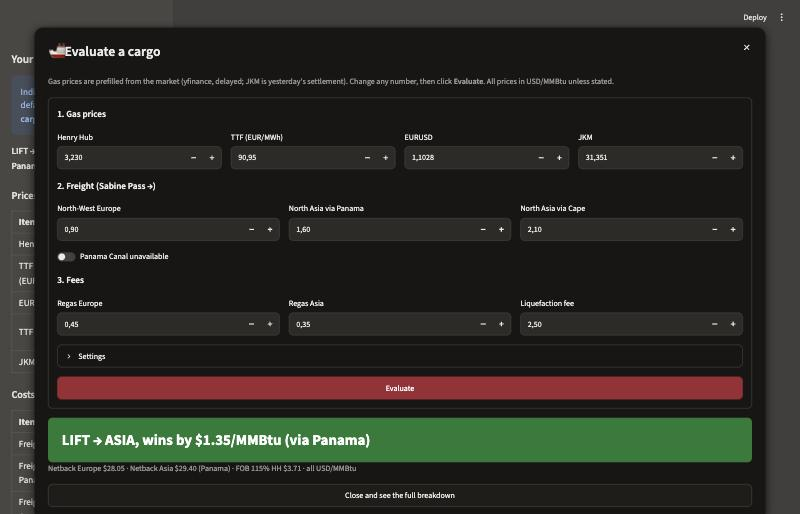
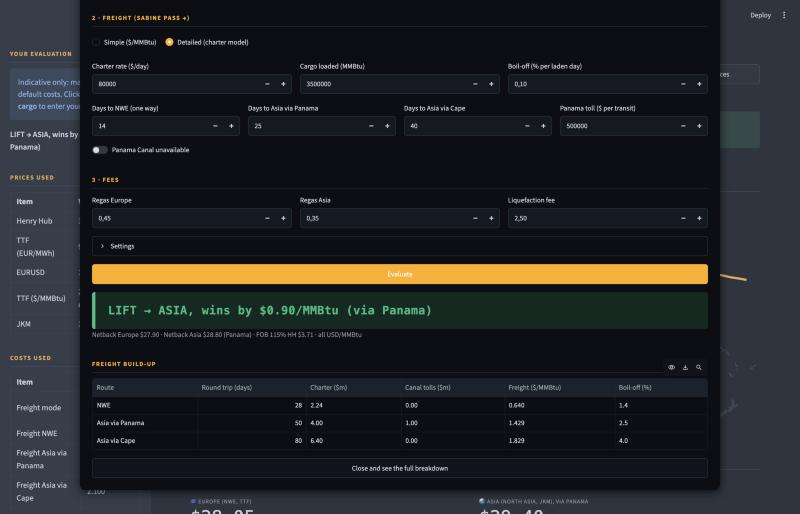
V2 complete: final check against the spec, README and screenshots updated

diff --git a/README.md b/README.md
@@ -6,37 +6,50 @@ A Streamlit dashboard that answers one trading-desk question:
 
 It also answers the offtaker's question behind it: **lift the cargo, or cancel it?**
 
-![Dashboard](docs/dashboard.jpg)
+![Dashboard: verdict and route map](docs/dashboard.jpg)
 
 ---
 
 ## What it does
 
 1. **Pulls market prices** (delayed): Henry Hub, TTF and EURUSD, plus the latest JKM settlement.
-2. **Opens an "Evaluate a cargo" pop-up**. The gas prices are prefilled from the market and editable. The trader enters freight per route, regas and the liquefaction fee.
-3. **Gives the verdict straight away**, e.g. `LIFT → ASIA, wins by $1.35/MMBtu (via Panama)`, `LIFT → EUROPE`, `INDIFFERENT` or `CANCEL`.
-4. **Shows the full breakdown**: netbacks for Europe vs Asia, Panama vs Cape of Good Hope, FOB cost and margins.
-5. **Records what was done**: the sidebar keeps a summary of the evaluation, with every price labelled "market" or "your input".
-6. **Builds its own arb history**: every 5 minutes it re-prices the market and appends one row to a CSV log.
+2. **Opens an "Evaluate a cargo" pop-up**. The gas prices are prefilled from the market and editable. Freight is entered in one of two modes:
+   - **Simple:** USD/MMBtu per route.
+   - **Detailed:** a charter model (charter rate × round-trip days, Panama tolls, cargo size, boil-off), with a freight build-up table.
+3. **Gives the verdict straight away**, e.g. `LIFT → ASIA, wins by $0.90/MMBtu (via Panama)`, `LIFT → EUROPE`, `INDIFFERENT` or `CANCEL`.
+4. **Draws the routes** on a world map: Sabine Pass → North-West Europe, → North Asia via Panama, → North Asia via the Cape of Good Hope. Each route is labelled with its netback and the winner is highlighted.
+5. **Shows the full breakdown**: netbacks (hub price − regas − boil-off loss − freight), FOB cost and margins.
+6. **Stress-tests the decision**:
+   - **breakeven charts** give the exact JKM and TTF levels where the cargo flips destination;
+   - a **decision map** colours every JKM × freight combination by outcome.
+7. **Records what was done**: the sidebar keeps a summary of the evaluation, with every price labelled "market" or "your input".
+8. **Builds its own arb history**: every 5 minutes it re-prices the market and appends one row to a CSV log.
 
-![Evaluate a cargo pop-up](docs/evaluate_popup.jpg)
+![Evaluate a cargo: detailed freight model](docs/evaluate_popup.jpg)
+
+![Sensitivity: breakevens and decision map](docs/sensitivity.jpg)
 
 ---
 
 ## The economics
 
-All values in **USD/MMBtu**.
+All values in **USD/MMBtu**, per MMBtu **loaded**.
 
 | Step | Formula |
 |---|---|
 | TTF in dollars | `TTF (EUR/MWh) × EURUSD ÷ 3.412` (1 MWh = 3.412 MMBtu) |
 | Cost of the cargo at Sabine Pass | `FOB variable = 115% × Henry Hub` (feed gas, the only avoidable cost)<br>`FOB full = FOB variable + liquefaction fee` |
-| Netback Europe | `TTF − freight to NWE − regas Europe` |
-| Netback Asia | `JKM − freight to North Asia − regas Asia`, via **Panama** or the **Cape**, whichever is cheaper (Panama can be switched off) |
+| Freight (Detailed mode) | `(charter rate × round-trip days + canal tolls) ÷ cargo size`. The ship is paid out **and** back; Panama is transited twice |
+| Boil-off (Detailed mode) | `boil-off rate per day × laden days` (e.g. 0.10%/day × 14 days = 1.4%) |
+| Netback | `(hub price − regas) × (1 − boil-off) − freight` |
+| Asia route | **Panama** or the **Cape**, whichever gives the higher netback (Panama can be switched off) |
 | Destination | `spread = Netback Asia − Netback Europe`. Below the threshold ($0.10 by default), the verdict is **Indifferent** |
-| Lift or cancel | The liquefaction fee is **sunk**, so the cargo is cancelled only if the best netback is below **115% HH**. A cargo can lose money after the fee and still be worth lifting. |
+| Lift or cancel | The liquefaction fee is **sunk**, so the cargo is cancelled only if the best netback is below **115% HH**. A cargo can lose money after the fee and still be worth lifting |
+| Breakeven JKM | `regas Asia + (netback Europe + freight) ÷ (1 − boil-off)`, using the cheapest open Asia route |
 
-*Netback = what the cargo is worth back at Sabine Pass after shipping and regasification.*
+*Netback = what the cargo is worth back at Sabine Pass after regasification, boil-off and shipping.*
+
+**Why boil-off matters:** a longer voyage loses more cargo. In one test case, the simple model says *Asia by $0.12* but the detailed model says *Europe by $0.11*: the 25-day Asia voyage burns 2.5% of the cargo against 1.4% to Europe.
 
 ---
 
@@ -44,10 +57,21 @@ All values in **USD/MMBtu**.
 
 - **One data module.** Every price enters through [`market_data.py`](market_data.py), as a standard `Quote` (value, unit, source, timestamp, status). No other file knows the vendor exists. Moving from yfinance to **Bloomberg, ICE or Platts** means changing that one file.
 - **Every price carries its source, timestamp and a status light.** 🟢 fresh (under 20 min) · 🟡 delayed (20 to 60 min) · 🔴 stale (over 60 min, or the fetch failed). A price converted from two inputs (TTF in USD) takes the older timestamp and the worse light.
-- **Never crashes on bad data.** If a feed is down, the app shows red lights and the last known value, and the trader can still type prices in by hand.
-- **Clear separation:** formulas ([`arb_calc.py`](arb_calc.py)) · data ([`market_data.py`](market_data.py)) · history ([`arb_log.py`](arb_log.py)) · screens ([`app.py`](app.py)) · settings ([`config.py`](config.py)).
+- **Never crashes on bad data.** If a feed is down, the app shows red lights, and the trader can still evaluate a cargo by typing prices. The map and charts still work.
+- **Clear separation:**
+  - formulas: [`arb_calc.py`](arb_calc.py)
+  - data: [`market_data.py`](market_data.py)
+  - charts: [`charts.py`](charts.py), which draws only and does no maths
+  - history: [`arb_log.py`](arb_log.py)
+  - screens: [`app.py`](app.py)
+  - settings: [`config.py`](config.py)
 - **Self-built history.** One CSV row per price refresh: 28 columns covering prices, timestamps, statuses, costs, netbacks, route, verdict and margins. Exactly one row per fetch, even with several browser tabs open.
-- **Tested.** 22 automated tests, including hand-calculated arb cases, the status-light rules, offline behaviour and the log.
+- **Tested.** 42 automated tests, including:
+  - hand-calculated arb cases;
+  - the freight and boil-off worked example;
+  - breakevens, checked to give a spread of exactly zero;
+  - decision-map cells, including a route switch from Panama to the Cape;
+  - the status-light rules, offline behaviour and the log.
 
 ---
 
@@ -59,12 +83,13 @@ All values in **USD/MMBtu**.
 | TTF (`TTF=F`) | yfinance | Delayed, front month, EUR/MWh |
 | EURUSD (`EURUSD=X`) | yfinance | Delayed |
 | JKM (`JKM=F`) | yfinance | **Daily settlement only** (CME JKM futures, settled on Platts). Used as an editable prefill |
-| Freight, regas, liquefaction fee | Trader input | No free market feed |
+| Freight, voyage days, charter rate, regas, fees | Trader input | No free market feed. Detailed-mode defaults are editable placeholders |
 
 - yfinance data is **delayed and unofficial**: indicative only, **not for trading**.
-- Front-month prices everywhere (V1). A real cargo loading in month M usually prices on M+1.
+- Front-month prices everywhere. A real cargo loading in month M usually prices on M+1.
 - The history only builds while the app is open in a browser.
-- Boil-off and canal tolls (beyond freight) are not modelled yet.
+- Boil-off is applied on the laden leg only. Bunker fuel, port costs and the Suez route are not modelled.
+- Map routes are simplified sea lanes, not exact shipping tracks.
 
 ---
 
@@ -93,15 +118,17 @@ pytest
 
 ```
 lng_arbitrage/
-├── app.py              # Screens: pop-up, sidebar summary, breakdown, live market, log
-├── market_data.py      # THE data module: fetches prices, returns Quote objects
-├── arb_calc.py         # Pure formulas: no fetching, no display
-├── arb_log.py          # CSV history: one row per price refresh
-├── config.py           # Tickers, default costs, thresholds, refresh interval
-├── tests/              # 22 pytest tests
-├── docs/               # Screenshots
-├── SPEC.md             # Full specification (scope, formulas, screens)
-└── requirements.txt    # Pinned library versions
+├── app.py                 # Screens: pop-up, sidebar summary, map, breakdown, charts, live market, log
+├── market_data.py         # THE data module: fetches prices, returns Quote objects
+├── arb_calc.py            # Pure formulas: netbacks, freight & boil-off, breakevens, decision grid
+├── charts.py              # Plotly route map, breakeven charts, decision heatmap (display only)
+├── arb_log.py             # CSV history: one row per price refresh
+├── config.py              # Tickers, default costs, voyage defaults, map coordinates, thresholds
+├── .streamlit/config.toml # Dark trading-terminal theme
+├── tests/                 # 42 pytest tests
+├── docs/                  # Screenshots
+├── SPEC.md                # Full specification (V1 and V2: scope, formulas, screens, done criteria)
+└── requirements.txt       # Pinned library versions
 ```
 
 ---
@@ -111,8 +138,8 @@ lng_arbitrage/
 | Version | Scope | Status |
 |---|---|---|
 | **V1** | Calculator with market data, cargo evaluation pop-up, status lights, auto refresh and refresh log | ✅ Done |
-| **V2** | Route map (Sabine Pass → NWE, → Asia via Panama / Cape), sensitivity charts, freight built from charter rates, boil-off, M+1 pricing, design overhaul | Planned |
-| **V3** | Historical arb analysis from the refresh log | Planned |
+| **V2** | Freight & boil-off model, dark terminal design, route map, breakeven charts, decision heatmap | ✅ Done |
+| **V3** | Historical arb analysis from the refresh log, M+1 delivery-month pricing | Planned |
 
 ---
 

diff --git a/CLAUDE.md b/CLAUDE.md
@@ -5,7 +5,7 @@
 - **Owner:** a former gas trader (TTF, biomethane), now on the LBS Master in Financial Analysis and **learning Python**. They know the market well; Python is new to them.
 - **Goal:** a CV project. A Streamlit dashboard that answers "should a US LNG cargo from Sabine Pass go to Europe or Asia right now, and by how much?"
 - **Full scope and formulas:** see [SPEC.md](SPEC.md). SPEC.md is the source of truth. If code and spec disagree, ask before changing either.
-- **Versions:** V1 (calculator, live data, "Evaluate a cargo" pop-up) is **done**. **V2 is in progress**: freight & boil-off model, dark terminal design, route map, sensitivity charts. Its spec is SPEC.md section 12. V3 (historical analysis, M+1 pricing) comes after V2 meets its done criteria (SPEC.md 12.6).
+- **Versions:** V1 (calculator, live data, "Evaluate a cargo" pop-up) is **done**. V2 (freight & boil-off model, dark terminal design, route map, sensitivity charts; SPEC.md section 12) is **done**: all criteria in SPEC.md 12.6 checked. **V3** (historical analysis, M+1 pricing) is next and needs its own spec section before any code.
 - **GitHub:** https://github.com/Jalil-122/lng_arbitrage. After committing, `git push` uploads (the owner's token is saved in the macOS Keychain; never handle tokens).
 
 ## Architecture rules (desk-tool design)
@@ -29,7 +29,7 @@
 4. Don't add libraries, files or features that aren't in SPEC.md without asking first.
 5. When you teach a new Python or Streamlit idea for the first time, add a one- or two-line explanation.
 
-## V2 build order
+## V2 build order (done)
 
 1. Freight & boil-off model: `arb_calc.py` functions + tests (worked example in SPEC 12.3), Simple mode unchanged.
 2. Pop-up: Simple / Detailed freight switch, freight build-up table, sidebar summary update.

diff --git a/SPEC.md b/SPEC.md
@@ -15,7 +15,7 @@ The tool is built like a trading desk tool. Every price passes through **one dat
 | Version | Scope |
 |---|---|
 | **V1** ✅ done | Calculator with live delayed prices (HH, TTF, EURUSD), JKM daily settlement as an editable prefill, "Evaluate a cargo" pop-up, auto refresh, a status light for each price, and a refresh log |
-| **V2** (section 12) | Freight & boil-off model, dark trading-terminal design, route map, sensitivity charts (breakeven lines, decision heatmap) |
+| **V2** ✅ done (section 12) | Freight & boil-off model, dark trading-terminal design, route map, sensitivity charts (breakeven lines, decision heatmap) |
 | V3 | Historical arb analysis from the refresh log (and a scheduled logger if continuous history is needed). M+1 delivery-month pricing. |
 
 Sections 1–11 describe V1. Section 12 describes V2 and overrides V1 where they differ.
